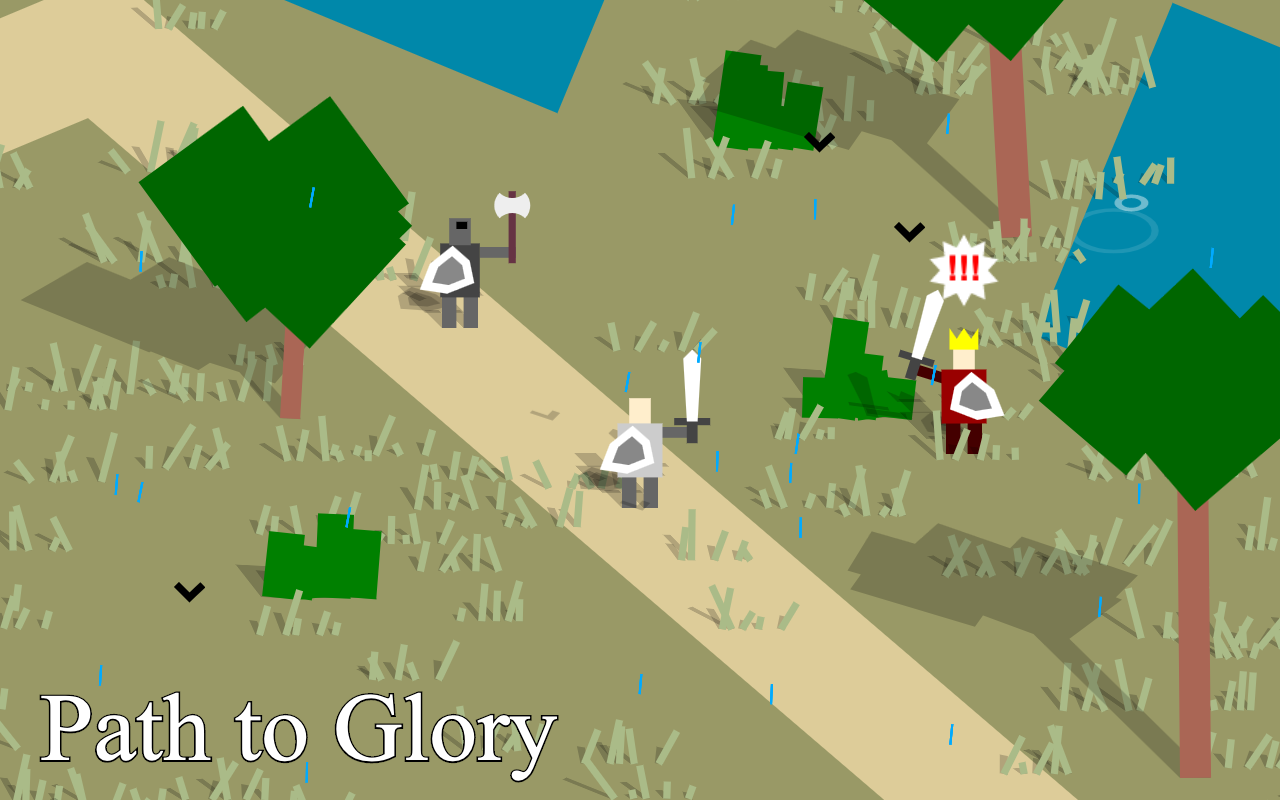
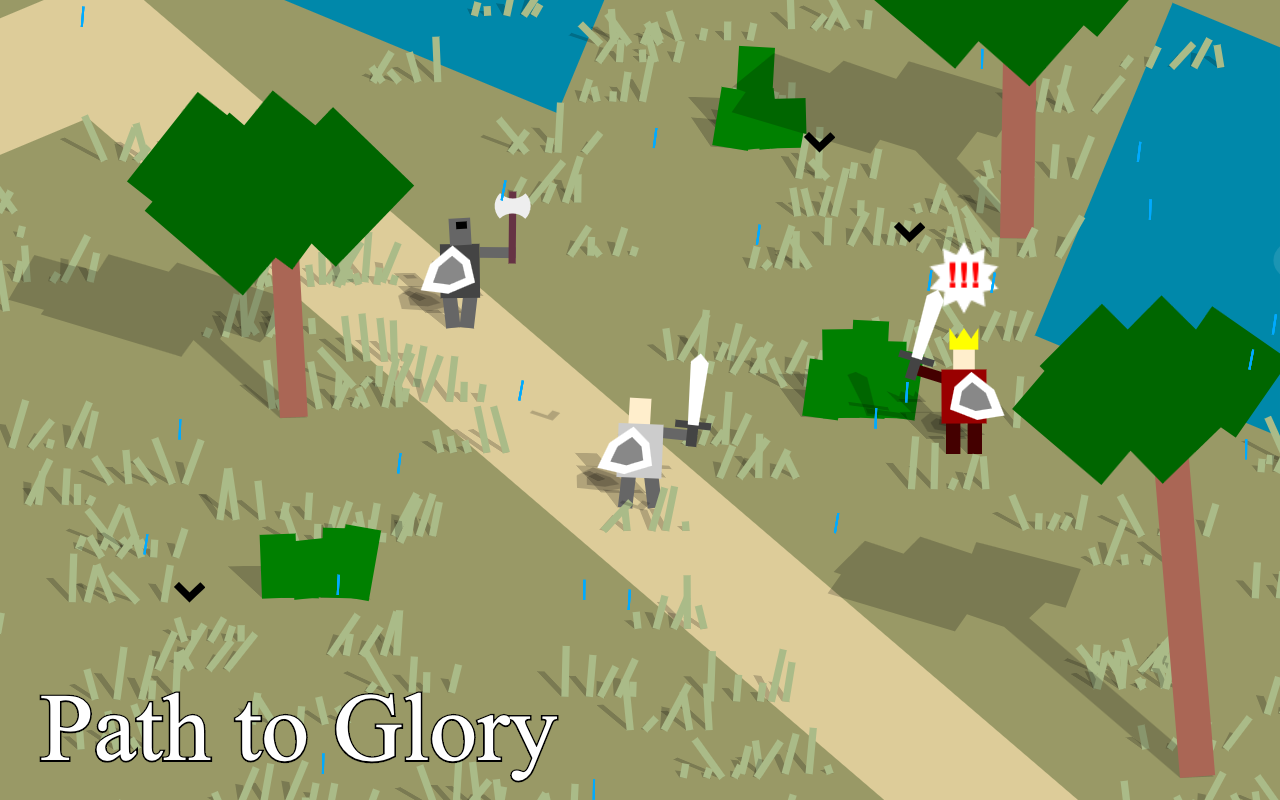
Tiny screenshot updates

diff --git a/src/js/level/screenshot-level.js b/src/js/level/screenshot-level.js
@@ -5,8 +5,11 @@ class ScreenshotLevel extends Level {
         oncontextmenu = () => {};
 
         const player = firstItem(this.scene.category('player'));
+        player.age = 0.4;
+
         MOUSE_POSITION.x = Number.MAX_SAFE_INTEGER;
         MOUSE_POSITION.y = CANVAS_HEIGHT / 2;
+        DOWN[39] = true;
 
         const camera = firstItem(this.scene.category('camera'));
         camera.zoom = 2;
@@ -89,6 +92,9 @@ class ScreenshotLevel extends Level {
         enemy2.setController(new AI());
         enemy2.controls.aim.x = player.x;
         enemy2.controls.aim.y = player.y;
+        enemy2.controls.force = 1;
+        enemy2.age = 0.6;
+        enemy2.controls.angle = angleBetween(enemy2, player)
 
         this.cycle(0); // helps regen grass
     }
